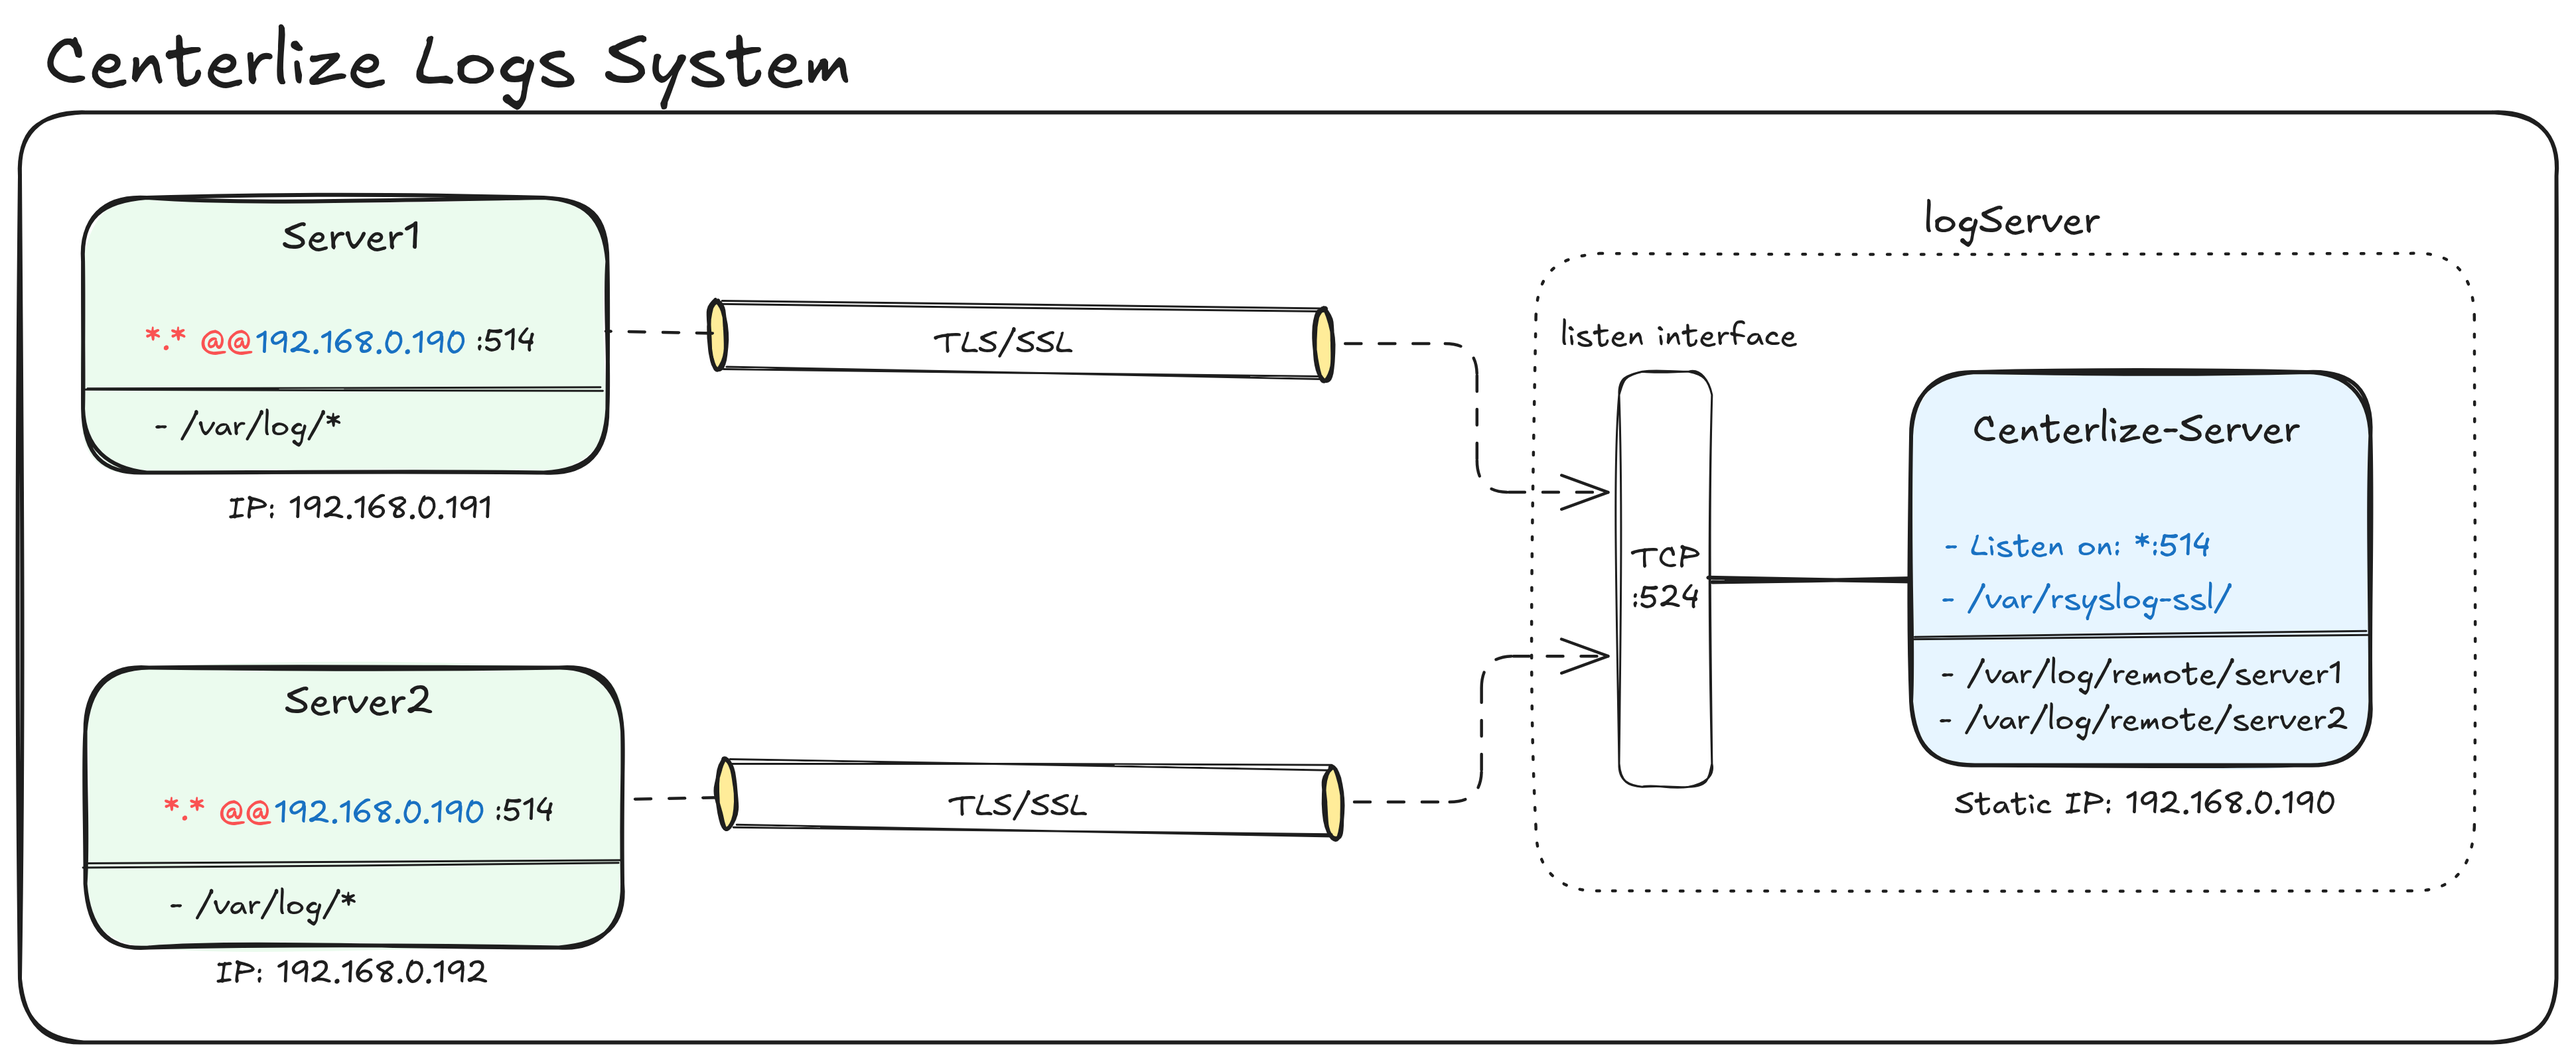
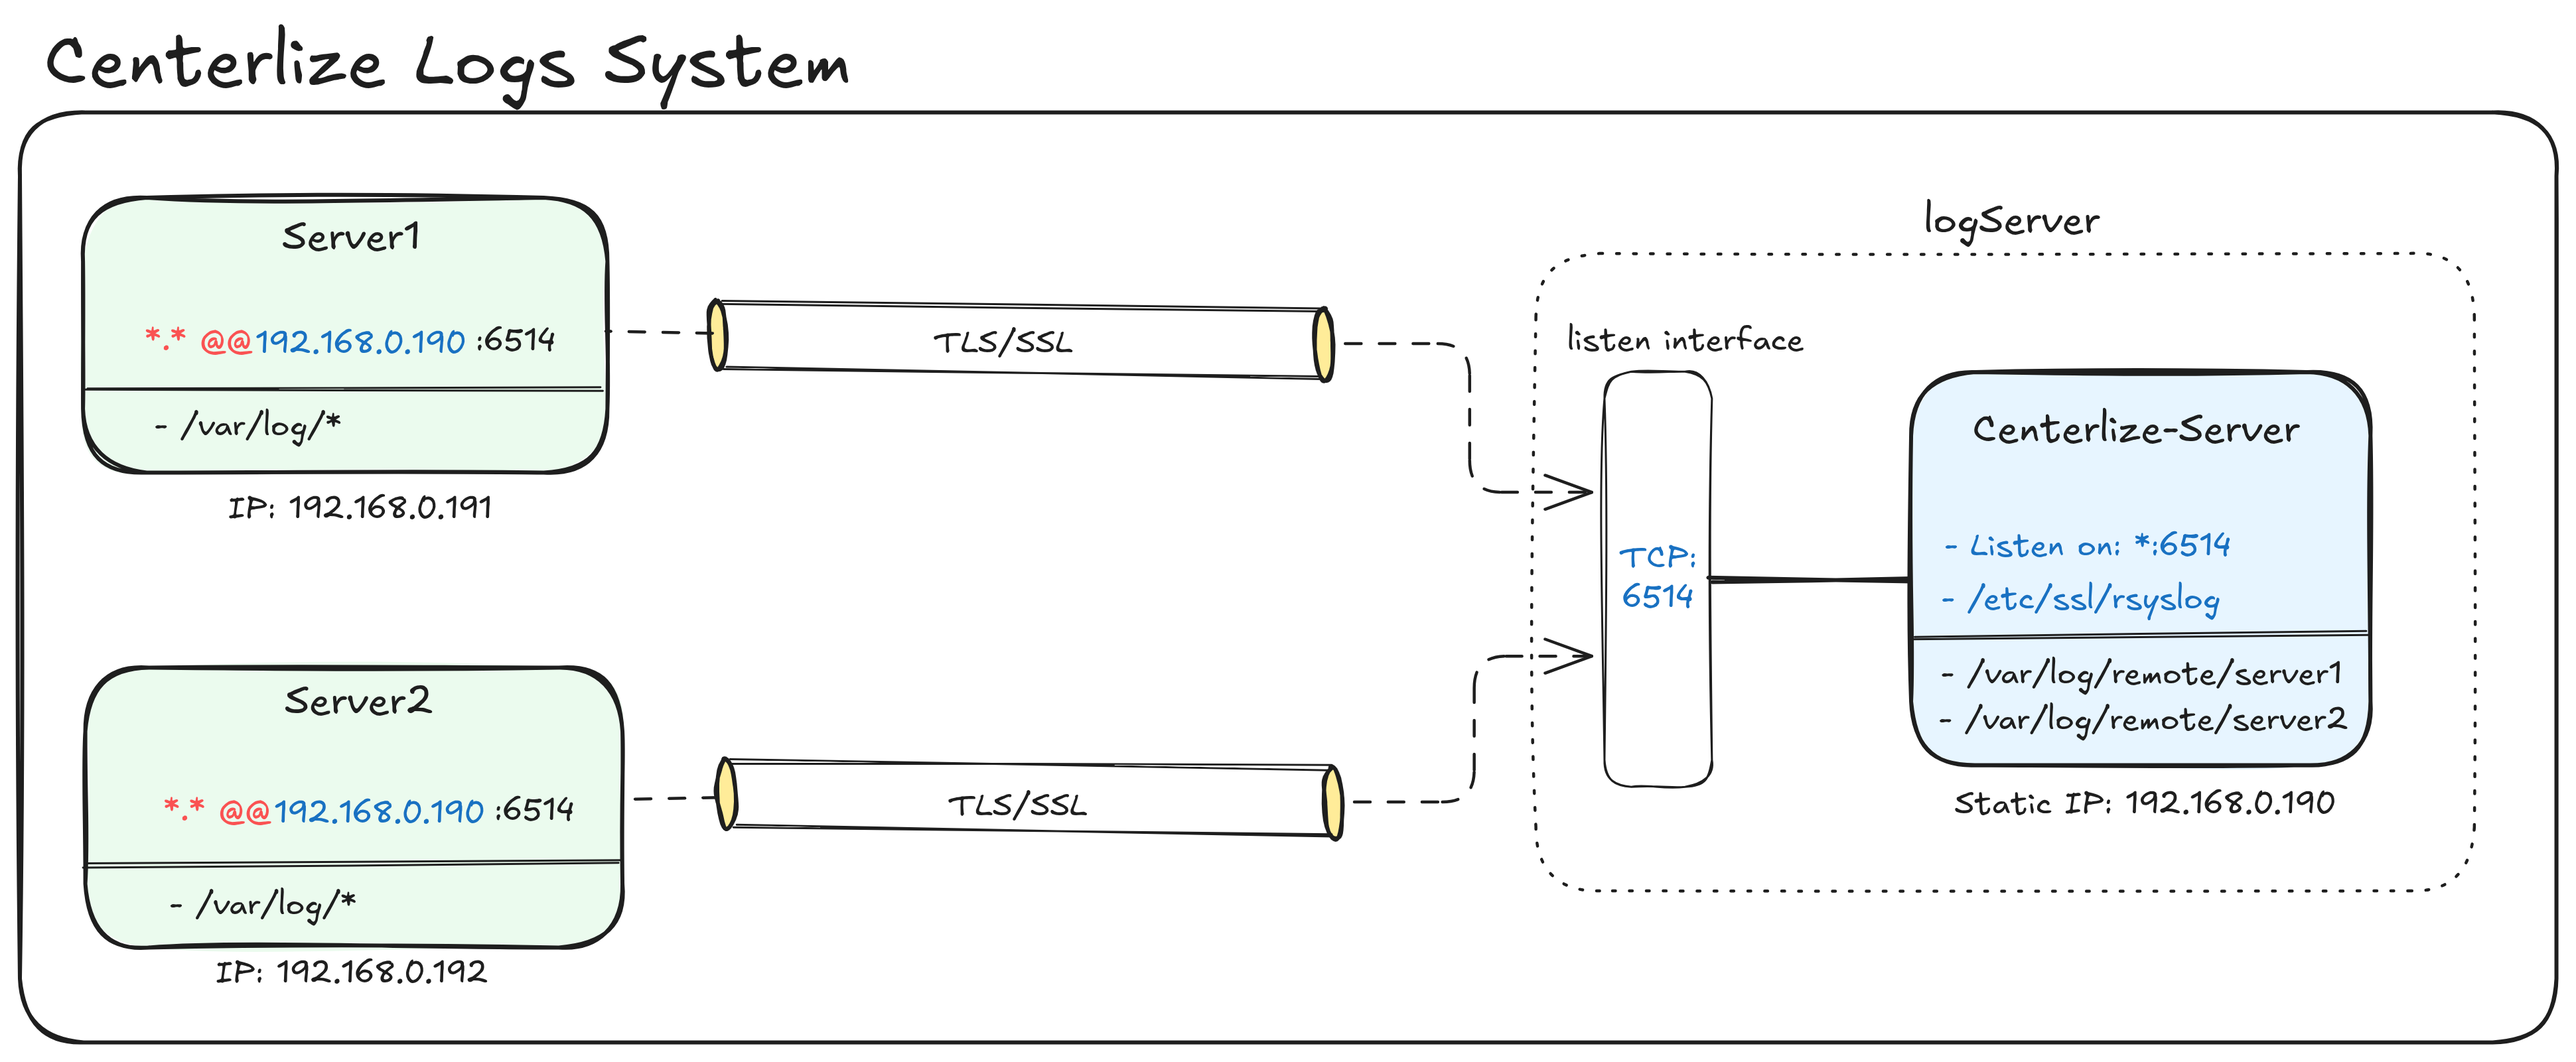
change(TLS): update server and client to use ssl connection but is not mTLS

diff --git a/README.md b/README.md
@@ -6,7 +6,7 @@ centralizing logs can help in better monitoring, analysis, and troubleshooting o
 
 ## Daigram
 
-![image_diagram](assets/centerlize_log_sever.png)
+![image_diagram](assets/secure_diagram.png)
 
 ---
 
@@ -81,3 +81,19 @@ netstat -tuln | grep 514
 - Send only usful logs to the central server by configuring filters on the client side to reduce noise and improve log management.
 - Configuring log Server to received only from known clients by using Firewall rules.
 - Let it support RHEL operating system as well.
+
+# ensure the client treats this cert as a trusted root CA
+
+-addext "basicConstraints=critical,CA:TRUE"
+
+# debug the TLS connection from the client to the server
+
+openssl s_client -connect 192.168.0.195:6514 -CAfile /etc/ssl/rsyslog/rsyslog.crt | less
+
+# check rsyslog configuration for syntax errors
+
+sudo rsyslogd -N1
+
+# On the client, check if the connection to the server is established
+
+sudo ss -tnp | grep 6514
